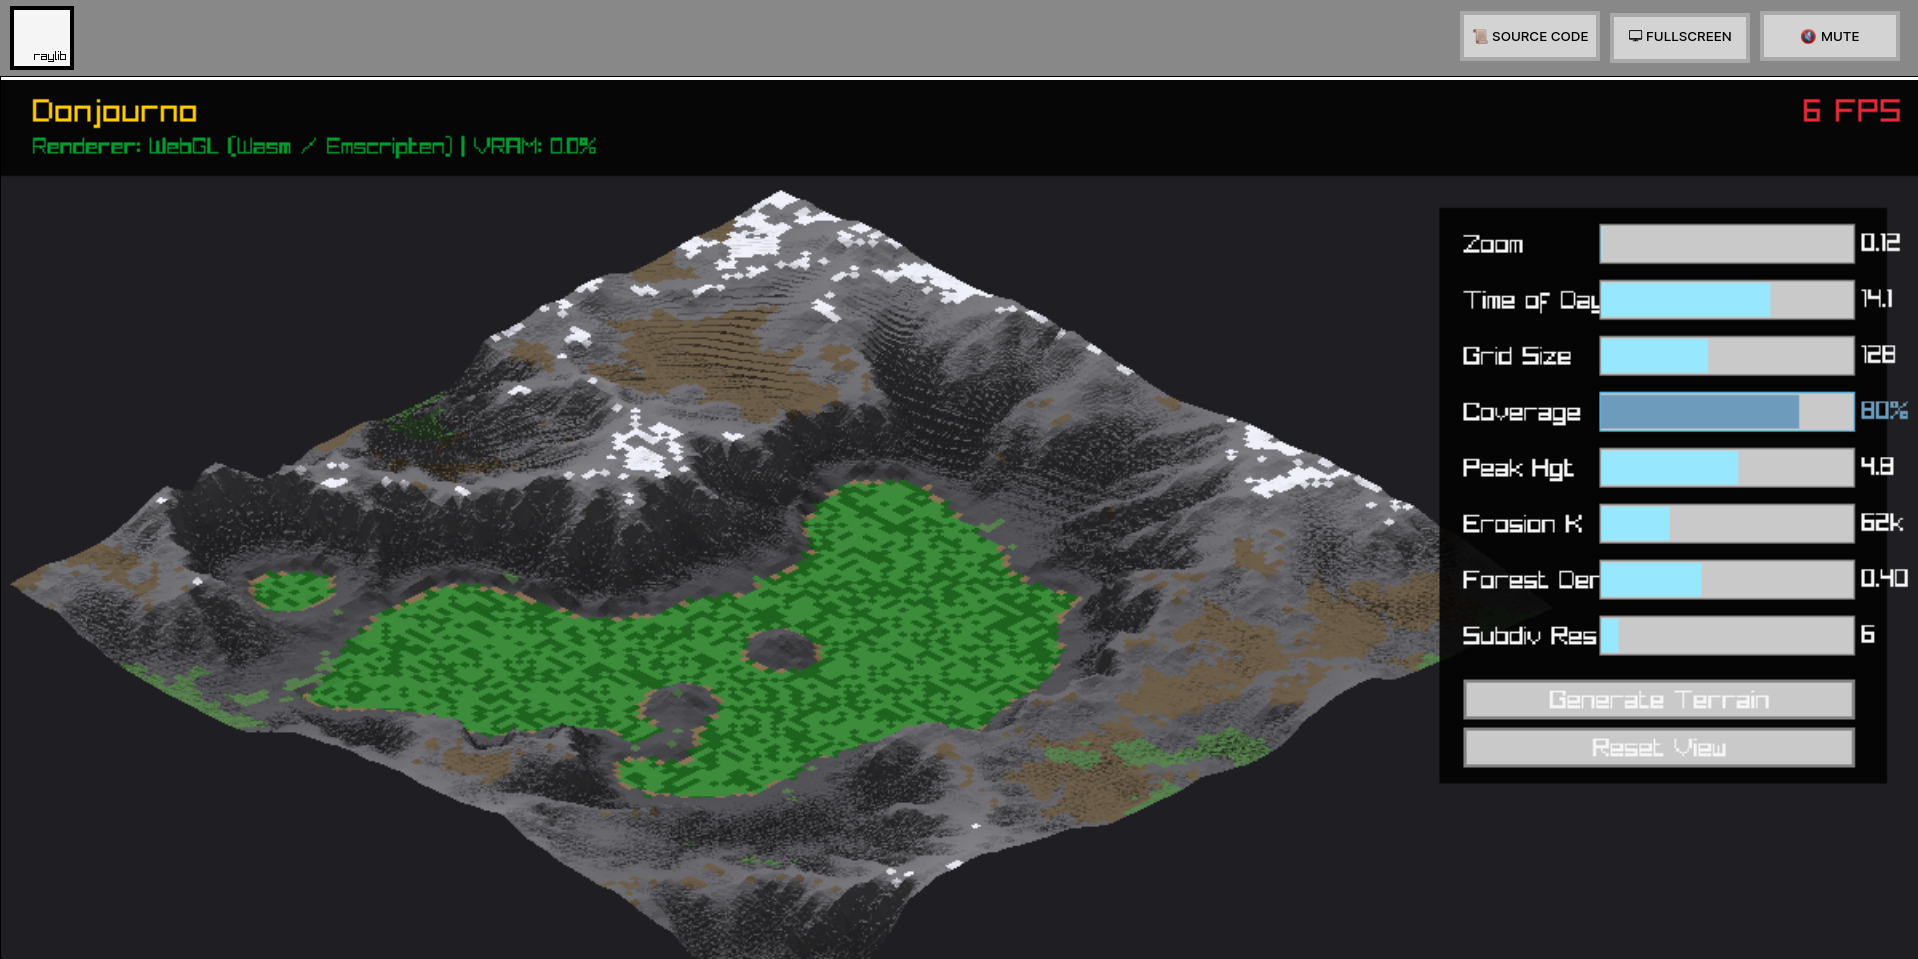
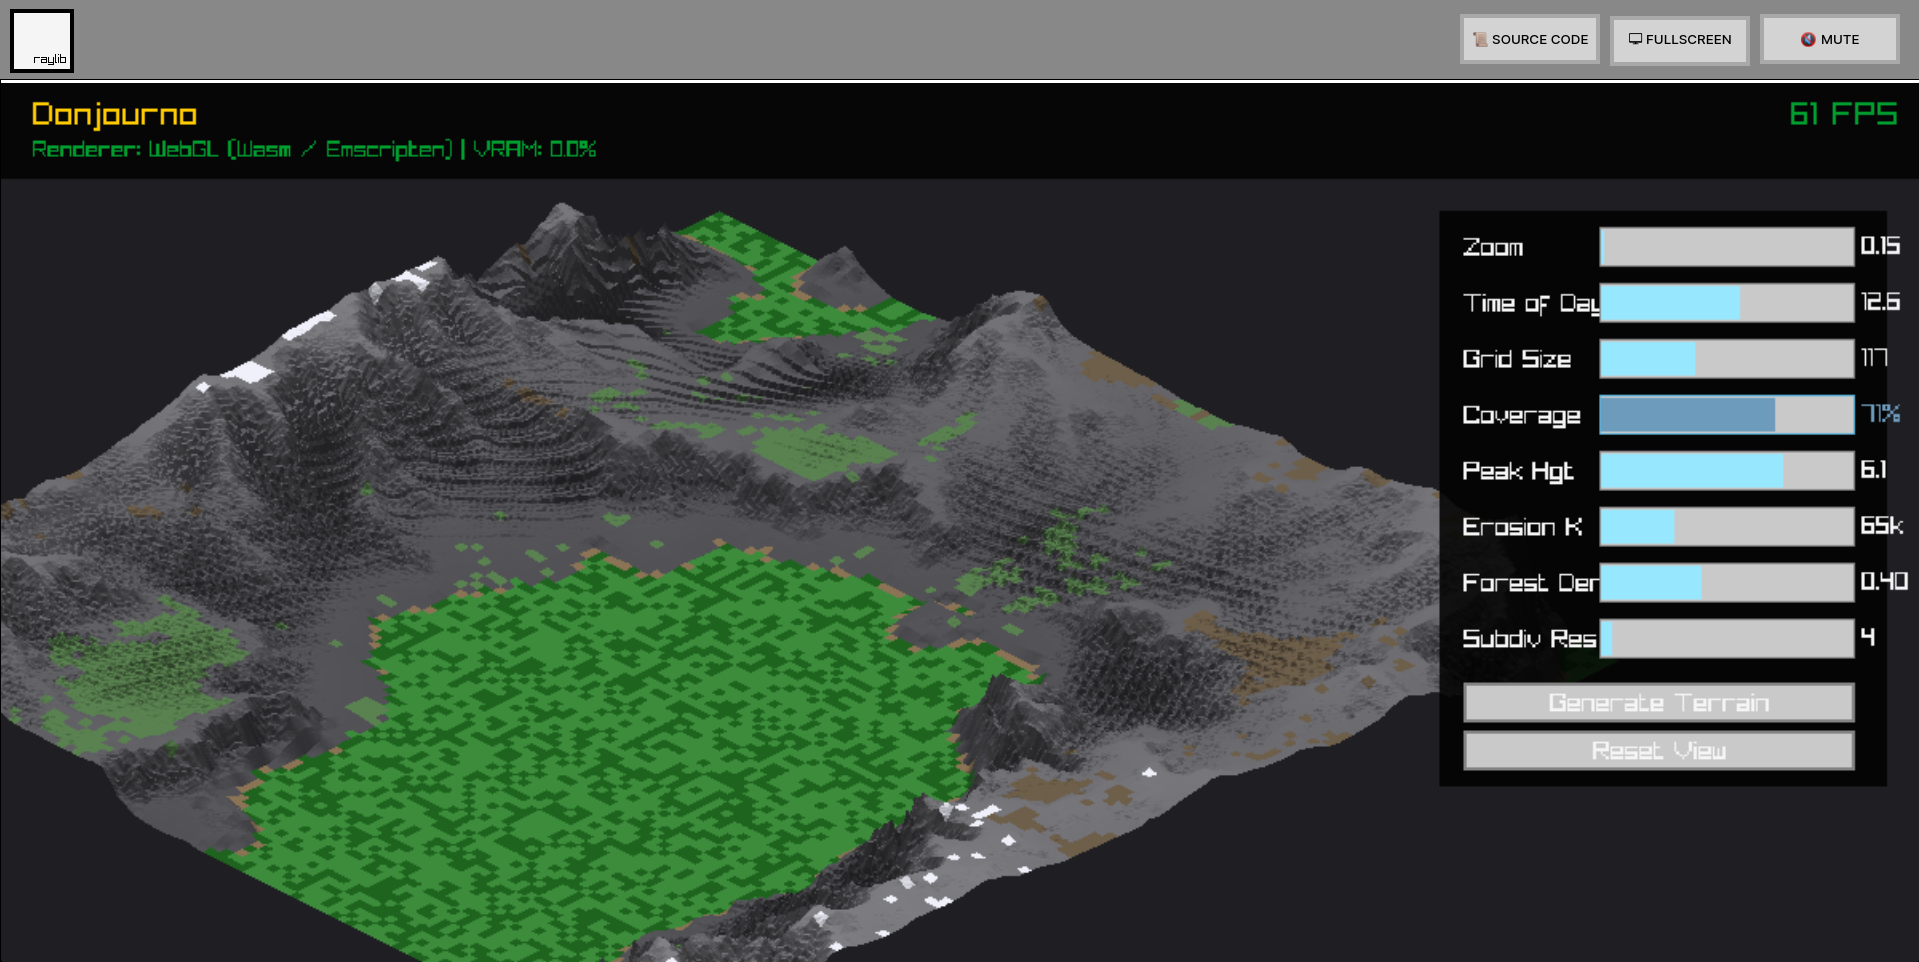
Rendering Optimization Render-to-Texture (RTT) and low FPS fix: 1. `RebuildTerrainTexture`: - Calculates the precise bounding box of all isometric triangles. - Creates a `RenderTexture2D` large enough to fit the terrain (up to 8192x8192). - Renders all triangles into this texture once using an offse

diff --git a/apps/wasm/main.cpp b/apps/wasm/main.cpp
@@ -36,6 +36,13 @@ static std::vector<CachedTriangle> g_mesh_cache;
 static float g_last_mesh_res = -1.0f;
 static float g_last_time_of_day = -1.0f;
 
+// Off-screen render texture for terrain (draw once, blit every frame)
+static RenderTexture2D g_terrain_rt = {};
+static bool g_terrain_rt_dirty = true;
+static Vector2 g_terrain_offset = {0, 0};  // Translation to place terrain in texture
+static int g_terrain_rt_w = 0;
+static int g_terrain_rt_h = 0;
+
 void RebuildGrid() {
     int new_size = (int)g_config.grid_size;
     auto grid_res = Grid::create(new_size, new_size);
@@ -60,6 +67,7 @@ void RebuildGrid() {
     pipeline.execute(*g_grid);
     g_last_config = g_config;
     g_last_mesh_res = -1.0f; // Force cache rebuild
+    g_terrain_rt_dirty = true;
 }
 
 Vector2 ProjectIso(float x, float y, float height);
@@ -165,6 +173,56 @@ void RebuildMeshCache() {
     
     g_last_mesh_res = g_config.mesh_resolution;
     g_last_time_of_day = g_config.time_of_day;
+    g_terrain_rt_dirty = true;
+}
+
+void RebuildTerrainTexture() {
+    // Compute bounding box of all cached triangles
+    float minX = 1e9f, minY = 1e9f, maxX = -1e9f, maxY = -1e9f;
+    for (const auto& tri : g_mesh_cache) {
+        for (int i = 0; i < 3; ++i) {
+            minX = std::min(minX, tri.p[i].x);
+            minY = std::min(minY, tri.p[i].y);
+            maxX = std::max(maxX, tri.p[i].x);
+            maxY = std::max(maxY, tri.p[i].y);
+        }
+    }
+
+    // Add margin
+    float margin = 16.0f;
+    minX -= margin; minY -= margin;
+    maxX += margin; maxY += margin;
+
+    int rt_w = (int)(maxX - minX);
+    int rt_h = (int)(maxY - minY);
+
+    // Clamp to reasonable size for WASM
+    rt_w = std::clamp(rt_w, 64, 8192);
+    rt_h = std::clamp(rt_h, 64, 8192);
+
+    // Recreate texture if size changed
+    if (rt_w != g_terrain_rt_w || rt_h != g_terrain_rt_h) {
+        if (g_terrain_rt.id > 0) UnloadRenderTexture(g_terrain_rt);
+        g_terrain_rt = LoadRenderTexture(rt_w, rt_h);
+        g_terrain_rt_w = rt_w;
+        g_terrain_rt_h = rt_h;
+    }
+
+    g_terrain_offset = { minX, minY };
+
+    // Render all triangles into the texture (one-time cost)
+    BeginTextureMode(g_terrain_rt);
+        ClearBackground(BLANK);
+        // Offset so terrain fits at (0,0) in the texture
+        for (const auto& tri : g_mesh_cache) {
+            Vector2 a = { tri.p[0].x - minX, tri.p[0].y - minY };
+            Vector2 b = { tri.p[1].x - minX, tri.p[1].y - minY };
+            Vector2 c = { tri.p[2].x - minX, tri.p[2].y - minY };
+            DrawTriangle(a, b, c, tri.c);
+        }
+    EndTextureMode();
+
+    g_terrain_rt_dirty = false;
 }
 
 Vector2 ProjectIso(float x, float y, float height) {
@@ -197,17 +255,25 @@ void UpdateDrawFrame() {
     }
     g_camera.zoom = std::clamp(g_camera.zoom + GetMouseWheelMove() * 0.05f, 0.1f, 3.0f);
 
+    // Rebuild mesh cache if needed (only when params change)
+    if (g_config.mesh_resolution != g_last_mesh_res || g_config.time_of_day != g_last_time_of_day) {
+        RebuildMeshCache();
+    }
+
+    // Render terrain to off-screen texture if dirty (one-time cost)
+    if (g_terrain_rt_dirty && !g_mesh_cache.empty()) {
+        RebuildTerrainTexture();
+    }
+
     BeginDrawing();
         ClearBackground({ 30, 30, 35, 255 });
         
         BeginMode2D(g_camera);
-            // Continuous mesh drawing using the cache
-            if (g_config.mesh_resolution != g_last_mesh_res || g_config.time_of_day != g_last_time_of_day) {
-                RebuildMeshCache();
-            }
-
-            for (const auto& tri : g_mesh_cache) {
-                DrawTriangle(tri.p[0], tri.p[1], tri.p[2], tri.c);
+            // Draw the pre-rendered terrain texture (1 draw call!)
+            if (g_terrain_rt.id > 0) {
+                Rectangle src = { 0, 0, (float)g_terrain_rt_w, -(float)g_terrain_rt_h };
+                Rectangle dst = { g_terrain_offset.x, g_terrain_offset.y, (float)g_terrain_rt_w, (float)g_terrain_rt_h };
+                DrawTexturePro(g_terrain_rt.texture, src, dst, {0, 0}, 0.0f, WHITE);
             }
         EndMode2D();
 

diff --git a/apps/gui/main.cpp b/apps/gui/main.cpp
@@ -33,6 +33,13 @@ static std::vector<CachedTriangle> g_mesh_cache;
 static float g_last_mesh_res = -1.0f;
 static float g_last_time_of_day = -1.0f;
 
+// Off-screen render texture for terrain (draw once, blit every frame)
+static RenderTexture2D g_terrain_rt = {};
+static bool g_terrain_rt_dirty = true;
+static Vector2 g_terrain_offset = {0, 0};
+static int g_terrain_rt_w = 0;
+static int g_terrain_rt_h = 0;
+
 void RebuildGrid() {
     int new_size = (int)g_config.grid_size;
     auto grid_res = Grid::create(new_size, new_size);
@@ -57,6 +64,7 @@ void RebuildGrid() {
     pipeline.execute(*g_grid);
     g_last_config = g_config;
     g_last_mesh_res = -1.0f; // Force cache rebuild
+    g_terrain_rt_dirty = true;
 }
 
 Vector2 ProjectIso(float x, float y, float height);
@@ -163,6 +171,47 @@ void RebuildMeshCache() {
     
     g_last_mesh_res = g_config.mesh_resolution;
     g_last_time_of_day = g_config.time_of_day;
+    g_terrain_rt_dirty = true;
+}
+
+void RebuildTerrainTexture() {
+    float minX = 1e9f, minY = 1e9f, maxX = -1e9f, maxY = -1e9f;
+    for (const auto& tri : g_mesh_cache) {
+        for (int i = 0; i < 3; ++i) {
+            minX = std::min(minX, tri.p[i].x);
+            minY = std::min(minY, tri.p[i].y);
+            maxX = std::max(maxX, tri.p[i].x);
+            maxY = std::max(maxY, tri.p[i].y);
+        }
+    }
+
+    float margin = 16.0f;
+    minX -= margin; minY -= margin;
+    maxX += margin; maxY += margin;
+
+    int rt_w = std::clamp((int)(maxX - minX), 64, 8192);
+    int rt_h = std::clamp((int)(maxY - minY), 64, 8192);
+
+    if (rt_w != g_terrain_rt_w || rt_h != g_terrain_rt_h) {
+        if (g_terrain_rt.id > 0) UnloadRenderTexture(g_terrain_rt);
+        g_terrain_rt = LoadRenderTexture(rt_w, rt_h);
+        g_terrain_rt_w = rt_w;
+        g_terrain_rt_h = rt_h;
+    }
+
+    g_terrain_offset = { minX, minY };
+
+    BeginTextureMode(g_terrain_rt);
+        ClearBackground(BLANK);
+        for (const auto& tri : g_mesh_cache) {
+            Vector2 a = { tri.p[0].x - minX, tri.p[0].y - minY };
+            Vector2 b = { tri.p[1].x - minX, tri.p[1].y - minY };
+            Vector2 c = { tri.p[2].x - minX, tri.p[2].y - minY };
+            DrawTriangle(a, b, c, tri.c);
+        }
+    EndTextureMode();
+
+    g_terrain_rt_dirty = false;
 }
 
 Vector2 ProjectIso(float x, float y, float height) {
@@ -208,16 +257,24 @@ int main() {
         }
         camera.zoom = std::clamp(camera.zoom + GetMouseWheelMove() * 0.05f, 0.1f, 3.0f);
 
+        // Rebuild mesh cache if needed
+        if (g_config.mesh_resolution != g_last_mesh_res || g_config.time_of_day != g_last_time_of_day) {
+            RebuildMeshCache();
+        }
+
+        // Render terrain to off-screen texture if dirty
+        if (g_terrain_rt_dirty && !g_mesh_cache.empty()) {
+            RebuildTerrainTexture();
+        }
+
         BeginDrawing();
             ClearBackground({ 30, 30, 35, 255 });
             
-            BeginMode2D(camera);    // Continuous mesh drawing using the cache
-                if (g_config.mesh_resolution != g_last_mesh_res || g_config.time_of_day != g_last_time_of_day) {
-                    RebuildMeshCache();
-                }
-
-                for (const auto& tri : g_mesh_cache) {
-                    DrawTriangle(tri.p[0], tri.p[1], tri.p[2], tri.c);
+            BeginMode2D(camera);
+                if (g_terrain_rt.id > 0) {
+                    Rectangle src = { 0, 0, (float)g_terrain_rt_w, -(float)g_terrain_rt_h };
+                    Rectangle dst = { g_terrain_offset.x, g_terrain_offset.y, (float)g_terrain_rt_w, (float)g_terrain_rt_h };
+                    DrawTexturePro(g_terrain_rt.texture, src, dst, {0, 0}, 0.0f, WHITE);
                 }
             EndMode2D();
 
